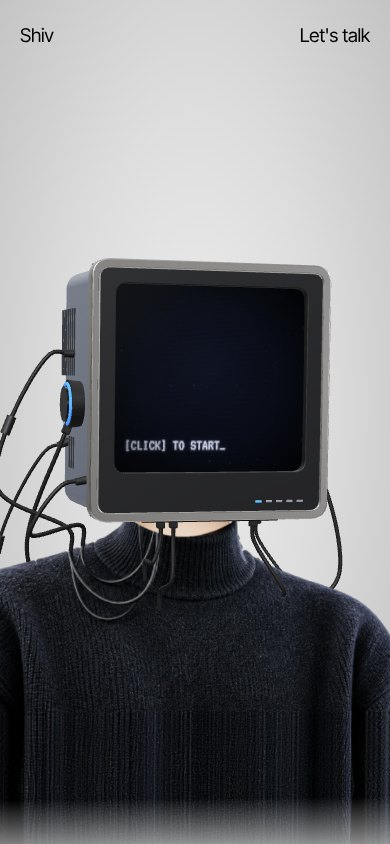
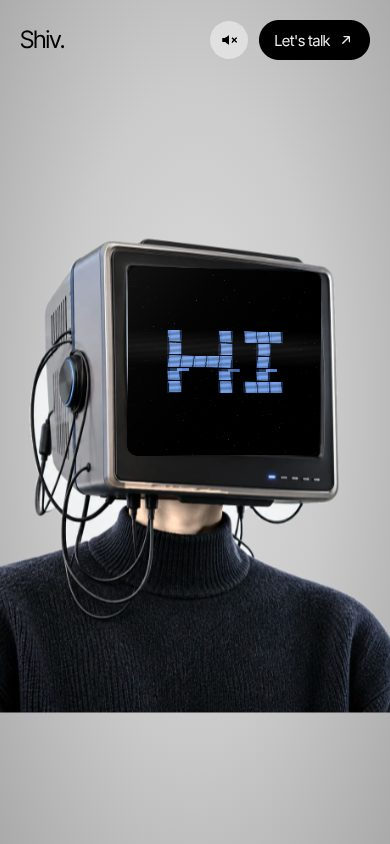
Docs: new conversation model, glitch, fresh screenshots
Claude-Session: https://claude.ai/code/session_01RVQ1Q59ngYfRhdqzZmJJG4

diff --git a/README.md b/README.md
@@ -4,6 +4,7 @@ Personal portfolio of Shivanand Shukla. The hero is a CRT-headed character that 
 
 ![State 1](docs/screenshots/desktop-idle.jpg)
 ![State 2](docs/screenshots/desktop-conversation.jpg)
+![The machine slips into "we"](docs/screenshots/desktop-glitch.jpg)
 
 ## Deploy on Vercel (one time)
 
@@ -15,9 +16,21 @@ No environment variables are needed.
 
 ## Change the words
 
-Everything the site says lives in [`src/hero/content.ts`](src/hero/content.ts): your name, the contact links, the nav, the screen text, the hints and the whole conversation.
+Everything the site says lives in [`src/hero/content.ts`](src/hero/content.ts): the signature, the contact links, the screen text and the whole conversation.
 
-The conversation is a small graph. Each entry in `dialogue` has the `lines` the character types and the reply `options` the visitor can pick. To build out a real "work" section later, give the `work` node new lines and options; no component needs to change. An optional `link` shows under a reply once it has typed.
+The conversation is a small graph. Each entry in `dialogue` has:
+
+- `system`: the small terminal line at the top (the machine's voice)
+- `lines`: what Shiv says, typed in order. The newest is large; the one before it small and faded
+- `sub`: the subtext under the large line
+- `screen`: the caption under the eyes on the monitor
+- `options`: the replies. The **first is the main call to action** (the big dark card); the rest are minor rows
+
+An option can go to another node (`next`), open a link (`href`) or open the contact panel (`action: "connect"`). Options with a `topic` fill the progress bar and light one more LED under the screen.
+
+### The "I → we" glitch
+
+A line can carry a `slip` (the same sentence, but "we") and a `recovery`. It types normally, tears into the slip for a moment, then is replaced by the recovery, as if nothing happened. Mark it `once` so it plays only on the first visit. There are three on purpose; more and it becomes a gimmick.
 
 ## Change the pictures on the screen
 
@@ -25,7 +38,7 @@ Before anyone clicks, the screen flashes pictures for a few seconds, broadcast i
 
 ## Change the timing
 
-Every duration (nudges, typing speed, the slide, blinks, the head's lag) is a named constant in [`src/hero/timings.ts`](src/hero/timings.ts).
+Every duration (nudges, typing speed, the glitch, the slide, blinks, the head's lag) and how much the body follows the head is a named constant in [`src/hero/timings.ts`](src/hero/timings.ts).
 
 ## Run it locally
 
@@ -46,7 +59,7 @@ Add `?nowebgl` to the URL to see the photo fallback that browsers without WebGL 
 | `src/hero/screen/engine.ts` | Draws the monitor screen live on a canvas: stars, text, caret, flicker, power-on, the face |
 | `src/hero/character/Character.tsx` | The one `<Character />` interface: photo first, then the 3D head |
 | `src/hero/character/Crt3D.tsx` | The procedural 3D monitor (React Three Fiber). Swap for a GLB here |
-| `src/hero/sound.ts` | Optional hum and key clicks, synthesised with WebAudio, off by default |
+| `src/hero/sound.ts` | Ambient room tone, power-on hum, key clicks and the glitch blip, synthesised with WebAudio, off until the top-bar speaker is pressed |
 | `scripts/make_plates.py` | Rebuilds `public/character/body.*` and `front-blank.*` from `front.png` |
 
 Details: [requirements](docs/plans/2026-10-20-1931-feat-crt-hero-plan.md), [visual direction](docs/design/hero-direction.md), [lessons learned](docs/learnings.md).
@@ -55,4 +68,5 @@ Details: [requirements](docs/plans/2026-10-20-1931-feat-crt-hero-plan.md), [visu
 
 - **First paint.** The page paints the photo of the character immediately, then loads the 3D head (about 240 KB gzipped) in the background and crossfades to it. The first-paint JavaScript is about 220 KB gzipped, most of which is the Next.js and React runtime itself.
 - **Reduced motion.** With "reduce motion" on, the head holds still, the character jumps instead of sliding, and text appears at once.
+- **First-paint photo.** The photo that paints before the 3D head (and the no-WebGL fallback) still shows the original silver monitor. On a normal laptop the slimmer dark grey 3D head replaces it within about a second.
 - **Better assets.** A taller `body.png` (sweater from the jawline to mid-torso, transparent background) would let the sweater reach the bottom of tall phones without the stretched strip at the very bottom. Drop it in `public/character/` and rerun the script, or ask Claude to wire it in.

diff --git a/docs/learnings.md b/docs/learnings.md
@@ -29,3 +29,11 @@ A luminance key works because everything on the body is dark and the backdrop is
 ## Testing without a GPU
 
 Headless Chromium here renders WebGL in software at 2–3 fps, which also slows `setTimeout`-driven typing. Tests wait for elements (`.pill`) rather than fixed delays.
+
+## Where the "I → we" glitch plays
+
+The glitch line is typed first, so it naturally lands in the small "previous" slot above the large line, which is chronologically right: he said it first. While it is being said that slot is sharp and black (`.line-prev.is-live`); once he recovers it fades like any other previous line. Putting the glitch on the large line instead meant either losing the destination's main sentence or typing three large lines in a row, which is too slow for a visitor who stays under a minute. Glitch lines are `once`, so a second visit skips them rather than replaying a joke that only works once.
+
+## Slimming the monitor
+
+The casing depths in `Crt3D.tsx` were tuned for a 5.0-deep monitor. Jacks, vents and the back-panel cables are placed in absolute depth, so they are scaled by `DS = M.d / 5`; without that, cables float behind a thinner casing.
